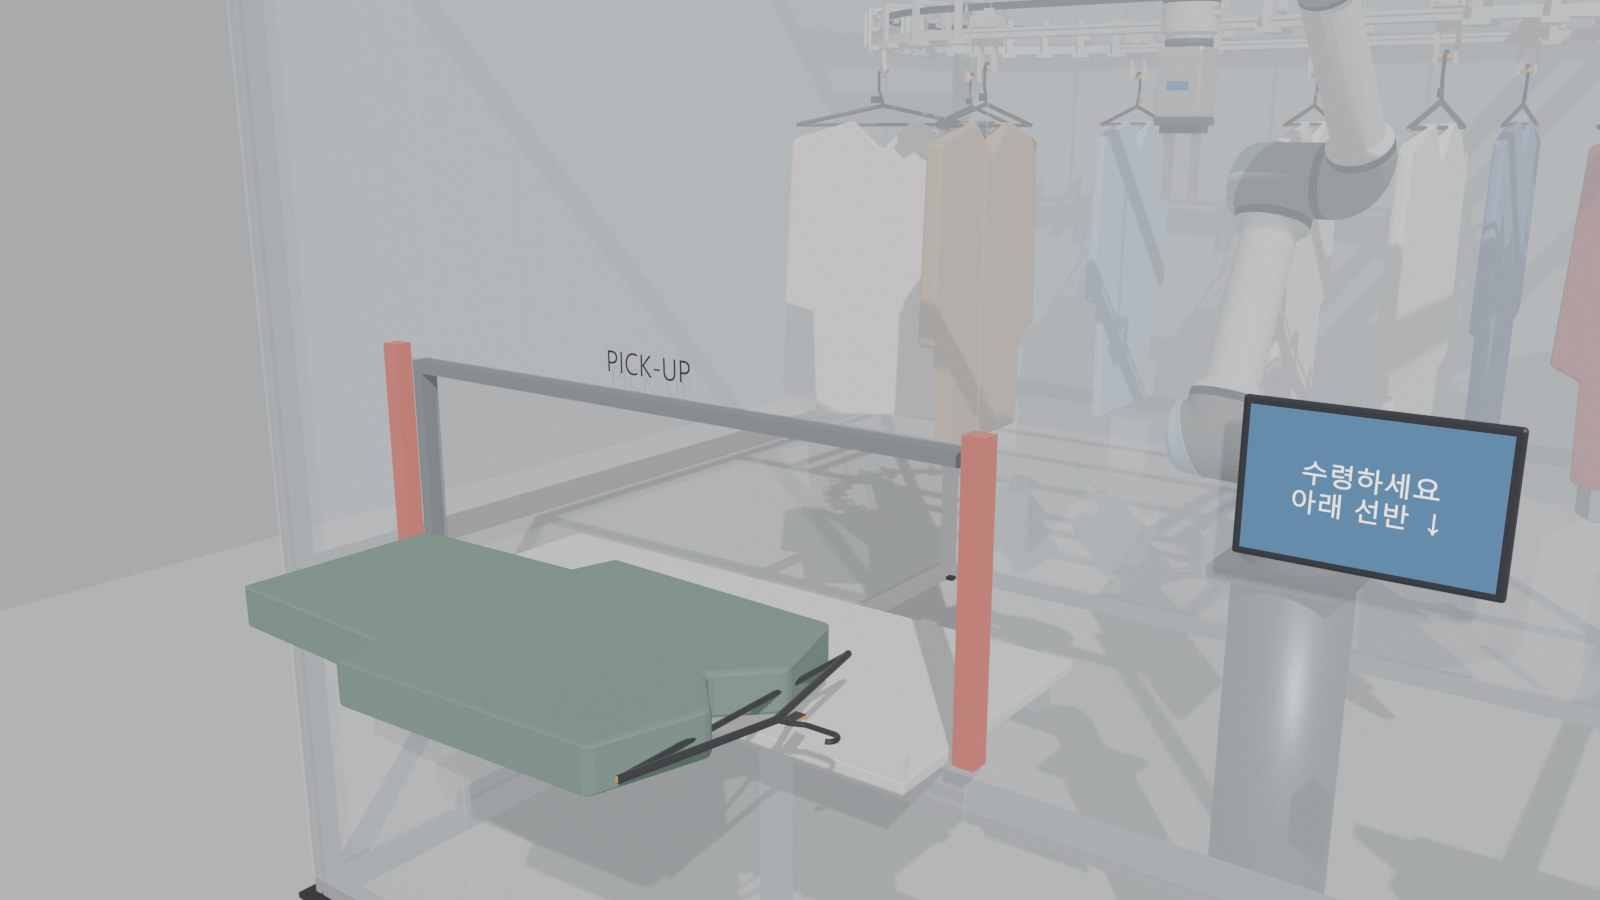
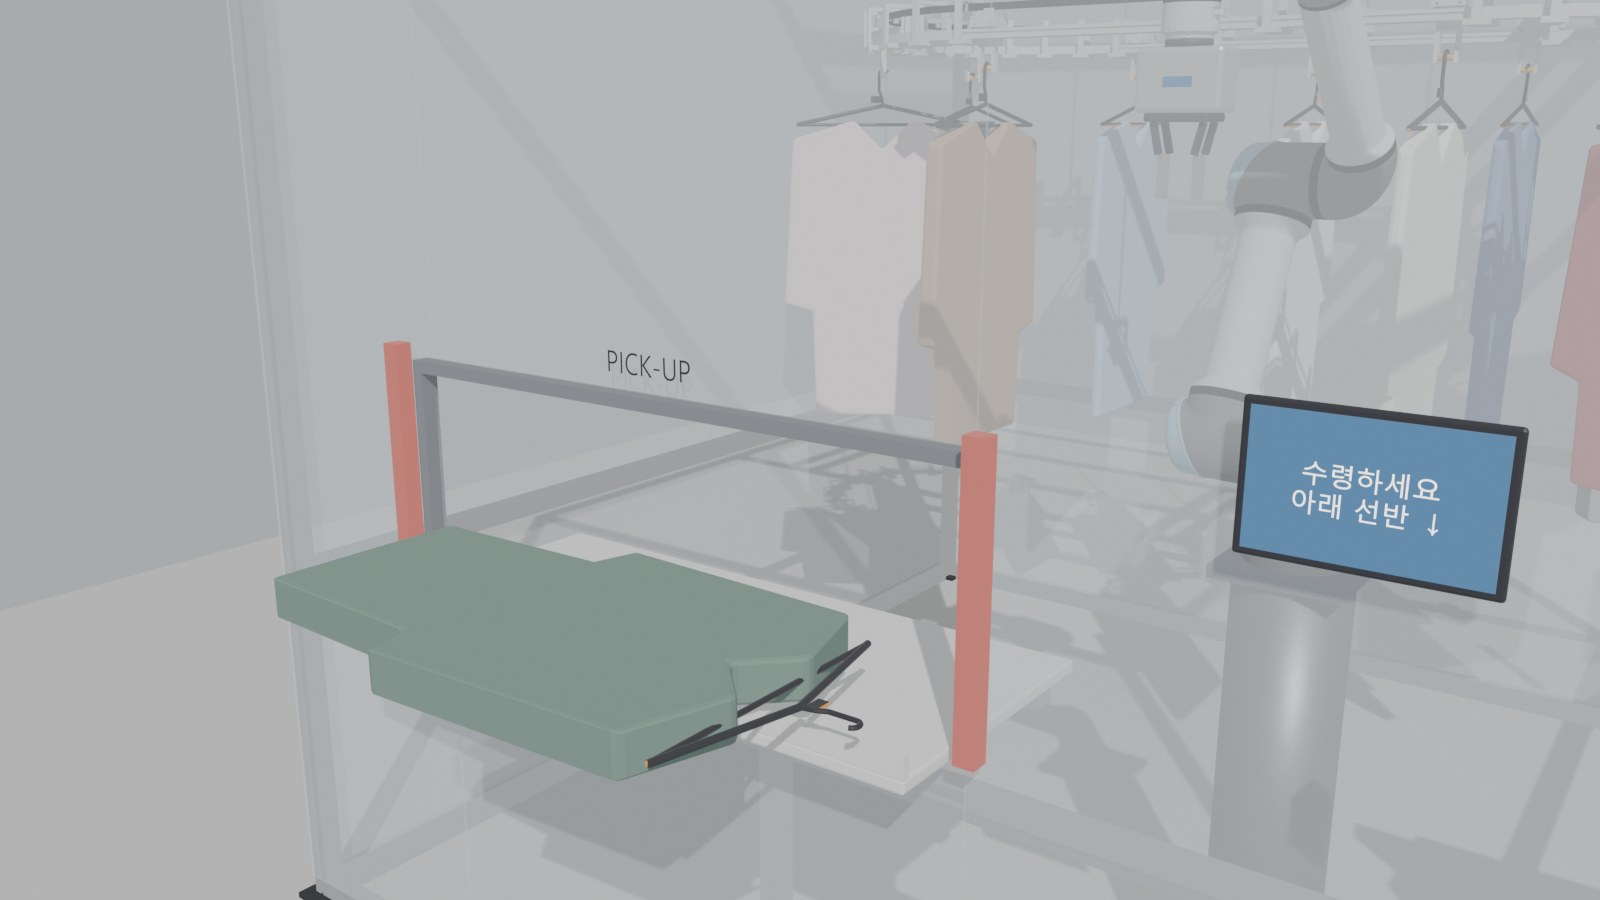
feat: switch the PoC gripper to the DH-Robotics AG-95
AG-95 (95 mm stroke, 45-160 N per jaw, 3 kg rated) with custom fingertip
pads keeps the 200 mm TCP; the sampled cycle still shows 0 interference
hits. Renders and READMEs updated.

Changed region(s): [[0.1562, 0.5911, 0.5625, 0.8711], [0.7188, 0.1244, 0.7812, 0.1867], [0.3125, 0.9022, 0.3438, 0.9333]]

diff --git a/poc_2.5m_cell/README.md b/poc_2.5m_cell/README.md
@@ -1,6 +1,6 @@
 # PoC 2.5 m 셀: 무인 세탁물 수령 (UR5e + 오버헤드 컨베이어)
 
-> **EN:** A 2.5 m x 2.5 m aluminium-profile proof-of-concept cell for the garment pickup step of V2.0: a UR5e with a DH-Robotics PGC-50-35 gripper takes a hanger by its tab from a self-designed overhead conveyor (10 carriers, GT2 belt, 3D-printed track and carriers) and lays it on a 0.8 m shelf through an acrylic opening. Creo parts/assembly/drawings, STEP/STL and BOM are here; interference checks found 0 hits in the sampled cycle.
+> **EN:** A 2.5 m x 2.5 m aluminium-profile proof-of-concept cell for the garment pickup step of V2.0: a UR5e with a DH-Robotics AG-95 adaptive gripper takes a hanger by its tab from a self-designed overhead conveyor (10 carriers, GT2 belt, 3D-printed track and carriers) and lays it on a 0.8 m shelf through an acrylic opening. Creo parts/assembly/drawings, STEP/STL and BOM are here; interference checks found 0 hits in the sampled cycle.
 
 캡스톤 V2.0 매장의 의류 출고 공정만 2.5 m × 2.5 m 알루미늄 프로파일 셀 하나로 줄인 졸업작품 PoC입니다.
 실사용 설비가 아닙니다. 시간은 가정 축 속도로 계산한 모델 시간이고, 안전 기능은 인증 설계가 아닙니다.
@@ -13,26 +13,26 @@
 |---|---|
 | 셀 | 40×40 프로파일 2.5 × 2.5 × 2.2 m. 바깥면 아크릴 5 mm. 오른쪽 면에 정비문(0.8 m, 인터록) |
 | 로봇 | UR5e (공식 ROS 2 Description 메시, BSD-3). 받침대 0.9 m, 위치 (0.45, -0.62) m |
-| 그리퍼 | DH-Robotics PGC-50-35 협동 전동 평행 그리퍼(124 × 63 × 63 mm, 0.5 kg, 행정 37 mm, 15–50 N/조, 개폐 0.7 s, 24 V). 외형만 단순화했고 제조사 CAD는 아님. 88 mm 맞춤 알루미늄 핑거로 옷걸이 목의 주황 탭(4 mm)만 잡음. TCP는 플랜지에서 200 mm |
+| 그리퍼 | DH-Robotics AG-95 (AG-160-95) 적응형 전동 그리퍼(행정 95 mm, 45–160 N/조, 권장 하중 3 kg, 1.0 kg, 개폐 0.9 s). 하우징과 링크 핑거를 단순화한 외형이며 제조사 CAD는 아님. 맞춤 핑거 패드(60 mm)로 옷걸이 목의 주황 탭(4 mm)만 잡음. TCP는 플랜지에서 200 mm |
 | 컨베이어 | 타원 루프(직선 1.0 m + 끝 R400), 둘레 4.513 m, 캐리어 10개, 피치 451 mm. 핀 높이 1.65 m |
 | 수령 | 앞면 아크릴 개구부 1.0 × 0.35 m. 선반 높이 0.80 m(휠체어 접근 높이). 안쪽 0.45 m + 바깥 0.15 m |
 | 주문 | 스마트폰 앱 또는 셀 앞면 갤럭시 탭(벽 거치)에서 인증 |
 | 안전 | 개구부 바깥쪽 라이트 커튼(로봇은 이 면을 넘지 않음), E-stop, 신호탑, 정비문 인터록 |
 
-## 2. 시나리오 (1사이클, 46.8 s, Blender 1:1 타임라인)
+## 2. 시나리오 (1사이클, 47.2 s, Blender 1:1 타임라인)
 
 | 시간 (s) | 단계 |
 |---|---|
 | 0.0–2.0 | 앱/탭에서 주문 #0427 (G06) 인증 |
 | 2.0–7.5 | 컨베이어 인덱싱 1.35 m (3피치, 0.3 m/s, 0.3 m/s²) |
 | 7.5–8.0 | 근접센서(트롤리 M3 플래그)·RFID 확인, 정지 |
-| 8.0–14.0 | 로봇: 원점 → 탭 앞 60 mm → 직선 진입 → PGC-50-35 닫힘 (0.7 s) |
-| 14.0–14.9 | 30 mm 리프트오프 (열린 후크가 핀에서 수직으로 빠짐, 포크 브리지와 4.5 mm 여유) |
-| 14.9–19.4 | 반경 방향 인출 0.53 m → 1.75 m로 상승 (밑단이 선반 립 위) |
-| 19.4–22.8 | 옷을 로봇 바깥쪽으로 회전 → J1만 47° 선회 (팔과 옷의 상대 위치가 바뀌지 않음) |
-| 22.8–33.6 | 선반 위에서 정렬 + 손목 90°(옷을 수평으로) → 하강 → 개구부 쪽으로 밀어 거치 |
-| 33.6–42.8 | 그리퍼 열림 → 후퇴 → 원점 복귀 |
-| 42.8–45.8 | 탭에 "수령하세요" 표시 → 고객이 개구부에서 옷걸이째 수령 |
+| 8.0–14.2 | 로봇: 원점 → 탭 앞 60 mm → 직선 진입 → AG-95 닫힘 (0.9 s) |
+| 14.2–15.1 | 30 mm 리프트오프 (열린 후크가 핀에서 수직으로 빠짐, 포크 브리지와 4.5 mm 여유) |
+| 15.1–19.6 | 반경 방향 인출 0.53 m → 1.75 m로 상승 (밑단이 선반 립 위) |
+| 19.6–23.0 | 옷을 로봇 바깥쪽으로 회전 → J1만 47° 선회 (팔과 옷의 상대 위치가 바뀌지 않음) |
+| 23.0–33.8 | 선반 위에서 정렬 + 손목 90°(옷을 수평으로) → 하강 → 개구부 쪽으로 밀어 거치 |
+| 33.8–43.2 | 그리퍼 열림 → 후퇴 → 원점 복귀 |
+| 43.2–46.2 | 탭에 "수령하세요" 표시 → 고객이 개구부에서 옷걸이째 수령 |
 
 안전 규칙: 로봇이 원점에 있고 라이트 커튼이 정상일 때만 "수령하세요"를 띄웁니다. 커튼이 차단되면 로봇은 선반 구역 동작을 멈춥니다.
 컨베이어는 로봇이 원점에 있을 때만 인덱싱합니다.
@@ -71,7 +71,7 @@
 | Creo 파트 17종 | `design.py` 미리보기와 비교: STL bbox 일치(0.01 mm 이내), 부피 오차 0.34 % 이하, 모두 watertight |
 | Creo 어셈블리 `cv_conveyor.asm` | 컴포넌트 223개 배치 (실패 0) |
 | 컨베이어 간섭 | 정적 쌍 검사 + 캐리어가 1피치를 10 mm 간격으로 이동하며 스윕 검사 → 0건 |
-| 셀 사이클 간섭 | 로봇 7링크 + 그리퍼 + 든 옷 vs 프레임·아크릴·선반·컨베이어·다른 옷, 2프레임 간격 523샘플 → 0건 (DH PGC-50-35 형상 포함) |
+| 셀 사이클 간섭 | 로봇 7링크 + 그리퍼 + 든 옷 vs 프레임·아크릴·선반·컨베이어·다른 옷, 2프레임 간격 529샘플 → 0건 (DH AG-95 형상 포함) |
 
 검사하지 않은 것:
 - 샘플 사이의 순간 접촉, 옷의 유연 변형(강체로 가정), 로봇 자기 충돌, 동역학
@@ -94,9 +94,8 @@ Blender 장면(.blend)과 생성·검증 스크립트는 이 저장소에 올리
 ## 6. 한계와 다음 단계
 
 - 탭 장착 옷걸이, 라이트 커튼, 컨트롤러 배선은 개념 수준입니다.
-- PGC-50-35 권장 하중은 1 kg이라 1.5 kg 재킷에는 여유가 작습니다. 그래서 탭을 마찰이 아니라 핑거 리브와 형상으로 맞물리게 했습니다.
-  재킷 비중이 크면 PGC-140-50(140 N급)으로 바꾸는 것도 검토할 수 있습니다.
-- 실물의 행정(35 / 37 mm)과 UR 플랜지 어댑터 사양은 DH-Robotics 데이터시트로 확인해야 합니다.
+- AG-95 권장 하중 3 kg이라 1.5 kg 재킷에도 여유가 있습니다.
+- 판매처마다 외형 치수가 다릅니다(134.5 × 162.3 × 53.6 mm, 184.6 × 162.3 × 67 mm). 실제 외형과 UR 플랜지 어댑터 사양은 DH-Robotics 데이터시트로 확인해야 합니다.
 - 도면 치수는 Creo 뷰 위에 덧그린 주석이며 Creo 연관 치수가 아닙니다. 형상 원본은 Creo 파트입니다.
 - 실제 제작 전 확인할 것:
   - 벨트 이음부 인장 시험

diff --git a/README.en.md b/README.en.md
@@ -16,7 +16,7 @@ A Hanyang University Capstone Design project.
 > 7 automated checks (0 interlock violations over 6,620 frames, 0 robot interference hits over 1,004 frames, and more). Times are model times computed
 > from assumed axis speeds, and the robot geometry is a UR5 CB-series stand-in for the target FR5e. Please read [Limitations](#limitations) first.
 
-> **New PoC (2026-11):** the garment pickup step alone in a 2.5 m x 2.5 m profile cell with a UR5e, a DH-Robotics PGC-50-35 gripper and a
+> **New PoC (2026-11):** the garment pickup step alone in a 2.5 m x 2.5 m profile cell with a UR5e, a DH-Robotics AG-95 adaptive gripper and a
 > self-designed overhead conveyor (Creo: 17 parts, assembly, 9 drawings, BOM) → [poc_2.5m_cell/](poc_2.5m_cell/README.md)
 
 ---

diff --git a/README.md b/README.md
@@ -17,7 +17,7 @@
 > UR5 CB-series 대체 메시입니다. [한계와 다음 단계](#16-한계와-다음-단계)를 먼저 읽어 주세요.
 
 > **새 PoC (2026-11):** 의류 출고 공정만 2.5 m × 2.5 m 프로파일 셀로 줄인 졸업작품 PoC입니다.
-> UR5e와 DH-Robotics PGC-50-35를 쓰고, 오버헤드 컨베이어는 Creo로 자체 설계했습니다(파트 17종, 어셈블리, 2D 도면 9장, BOM).
+> UR5e와 DH-Robotics AG-95를 쓰고, 오버헤드 컨베이어는 Creo로 자체 설계했습니다(파트 17종, 어셈블리, 2D 도면 9장, BOM).
 > → [poc_2.5m_cell/](poc_2.5m_cell/README.md)
 
 ---
